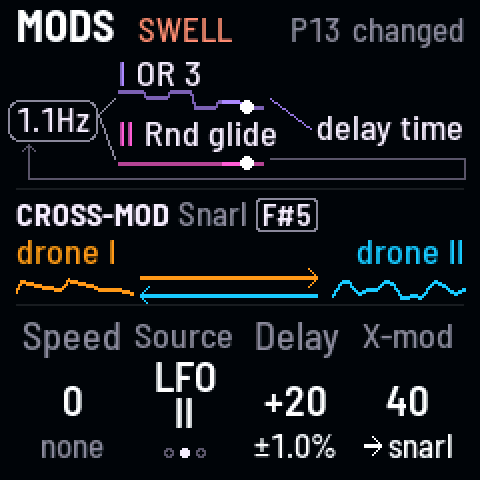
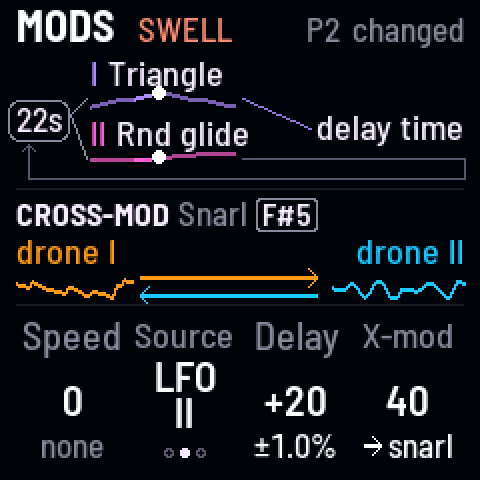
Snarl rendered on a steady sound (Embers, more echoes) instead of Telegraph's stepped figure, which hid it

diff --git a/docs/manual/recipes/sounds.md b/docs/manual/recipes/sounds.md
@@ -151,11 +151,11 @@ buzzes and takes on drone I's pitch as a grain.
 *The finished sound, echoes and all, bending both drones*
 
 At key 11's last setting, the finished sound, the delay's echoes included, bends both drones' pitch: a growl that
-drags the echoes with it.
+drags and tears the pitch, and the echoes with it. It's clearest on a steady sound with plenty of echoes.
 
-1. Tap black key 11, [[F#5]], three times from off: **Snarl** (it winks).
-2. Press [[LFO]] twice for **Mods**, and turn KNOB 4, X-mod, up: 40 a growl, 85 a snarl.
-3. Press [[FX]] for **Space**, and turn Repeat (KNOB 1) up: the snarl bends the echoes too.
+1. Press [[FX]] for **Space**, and turn Repeat (KNOB 1) and Mix (KNOB 2) up: more echoes for Snarl to drag.
+2. Tap black key 11, [[F#5]], three times from off: **Snarl** (it winks).
+3. Press [[LFO]] twice for **Mods**, and turn KNOB 4, X-mod, up: 40 a growl, 85 a snarl.
 
 > **Good to know.** The **Snarl** gesture ([[B4]]) brings it in by pressure, with the drive and Feedback on top, and
 > leaves without a trace. **Clean** ([[F5]]) takes it out while you hold it.
@@ -165,9 +165,9 @@ drags the echoes with it.
 
 **Listen** (`snarl`)
 
-- 0:00 P13 Telegraph as it starts: a stepped figure over a low D, through a delay
-- 0:01 key 11 three times: Snarl, the finished sound bending both drones
-- 0:04 X-mod up: the snarl grows, dragging the echoes with it
+- 0:00 P2 Embers with more echoes: steady triangles blooming toward saws
+- 0:01 Snarl on: the finished sound starts to bend both drones
+- 0:04 X-mod up: the snarl grows, the pitch dragged and torn, the echoes bending with it
 
 ## Movement and rhythm
 
